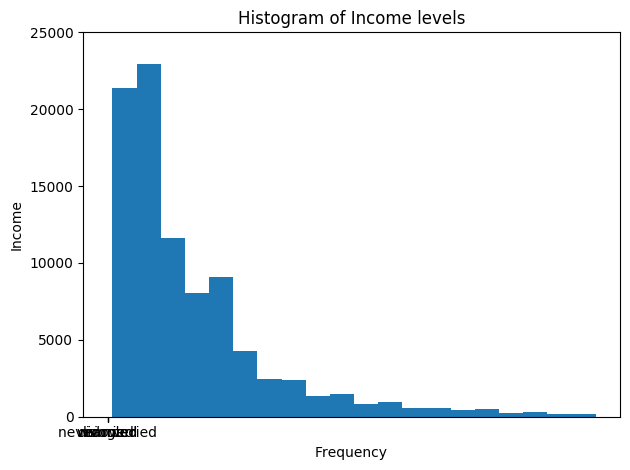
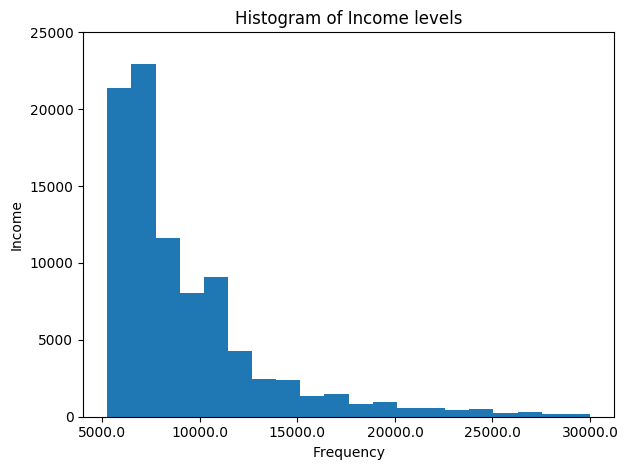
updated plots axes

diff --git a/src/modules/demographics/getData.py b/src/modules/demographics/getData.py
@@ -72,7 +72,7 @@ def getData(logger):
         plt.title("Bar Charts of Top 5 Marital Status")
         plt.xlabel('Frequency')
         plt.ylabel('Marital Status')        
-        plt.savefig('../results/plots/marital_status_top5.png', bbox_inches='tight') # save image
+        plt.savefig('../notebooks/plots/marital_status_top5.png', bbox_inches='tight') # save image
 
         ## income plot        
         income_col = data[:,colnames.index('income')]
@@ -82,14 +82,17 @@ def getData(logger):
         sel = vmatch(income_col) 
         income_ints = income_col[sel].astype(int) # convert to int
         income_filtered = income_ints[(income_ints >= 1000) & (income_ints <100000)]
-       
+        
+        fig, ax = plt.subplots(1,1)
+        xticks = np.linspace(0,100000,21)
+        ax.set_xticklabels(xticks)
         plt.hist(income_filtered, bins=20)
         plt.title("Histogram of Income levels")
         plt.xlabel('Frequency')
         plt.ylabel('Income')
         plt.ylim([0,25000])
         plt.tight_layout()
-        plt.savefig('../results/plots/income_hist.png', bbox_inches='tight') # save image
+        plt.savefig('../notebooks/plots/income_hist.png', bbox_inches='tight') # save image
         
         return data
 

diff --git a/src/modules/demographics/LoadData.py b/src/modules/demographics/LoadData.py
@@ -37,7 +37,6 @@ def LoadData(logger):
                         FROM {schema}.{table}
                         ''').format(schema  = sql.Identifier(schema), 
                                     table   = sql.Identifier(table))
-
         data = pgIO.getAllData(query)
 
         print("-" * 5, "Saving Data Now","-" * 5)
